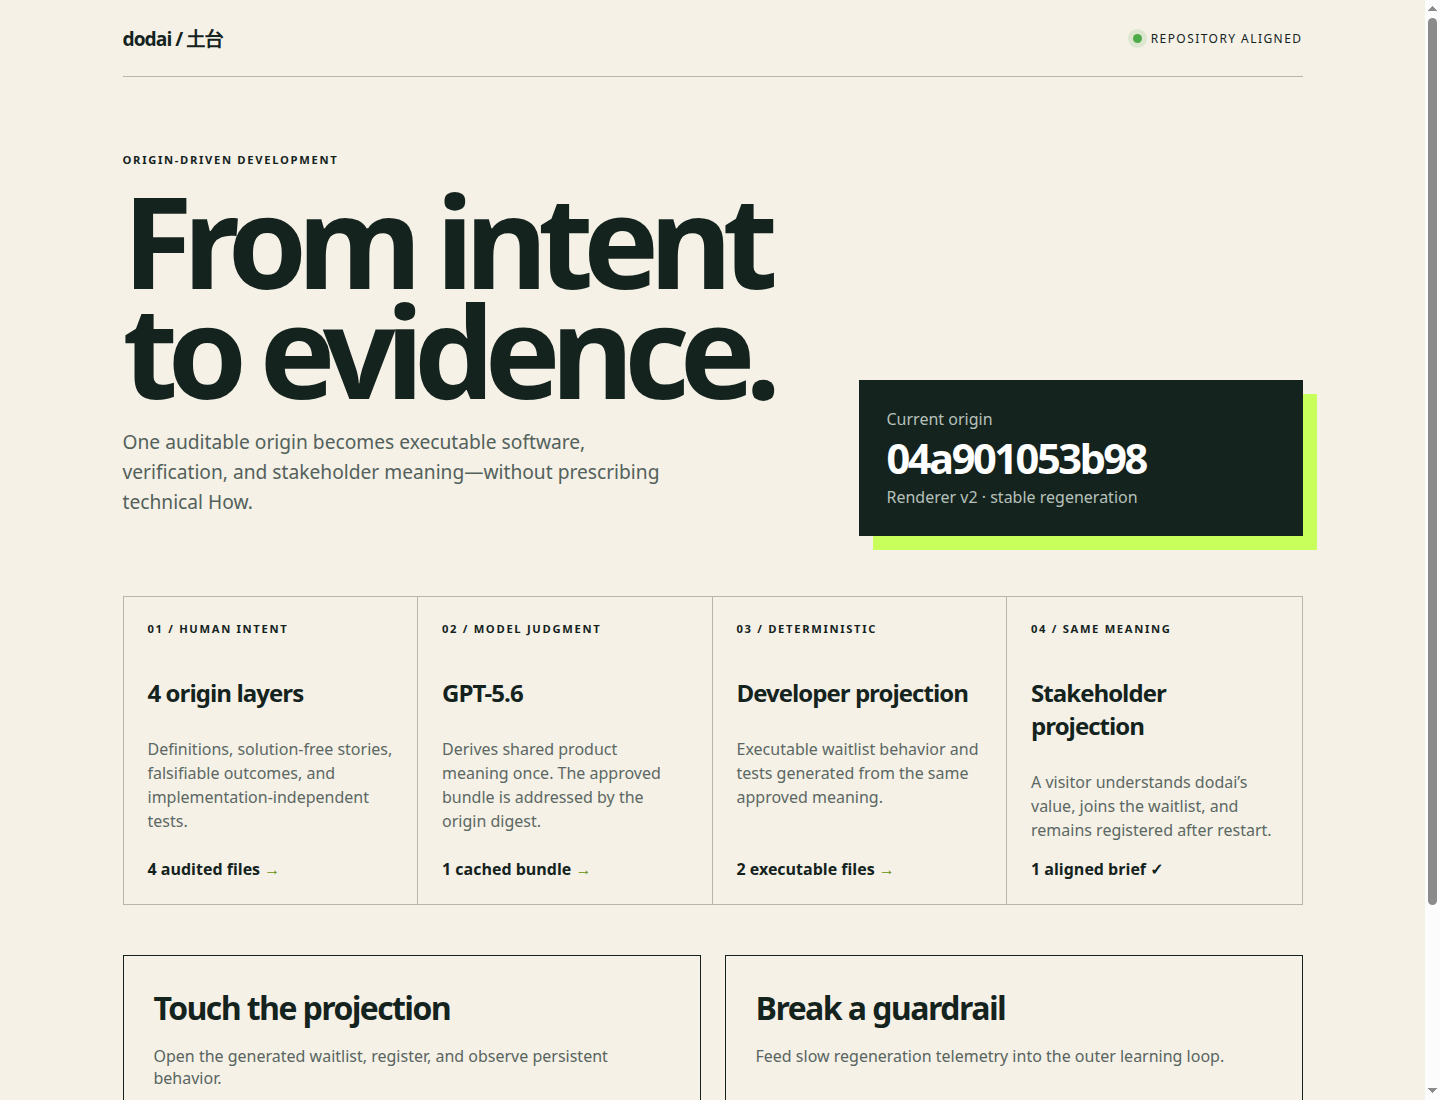
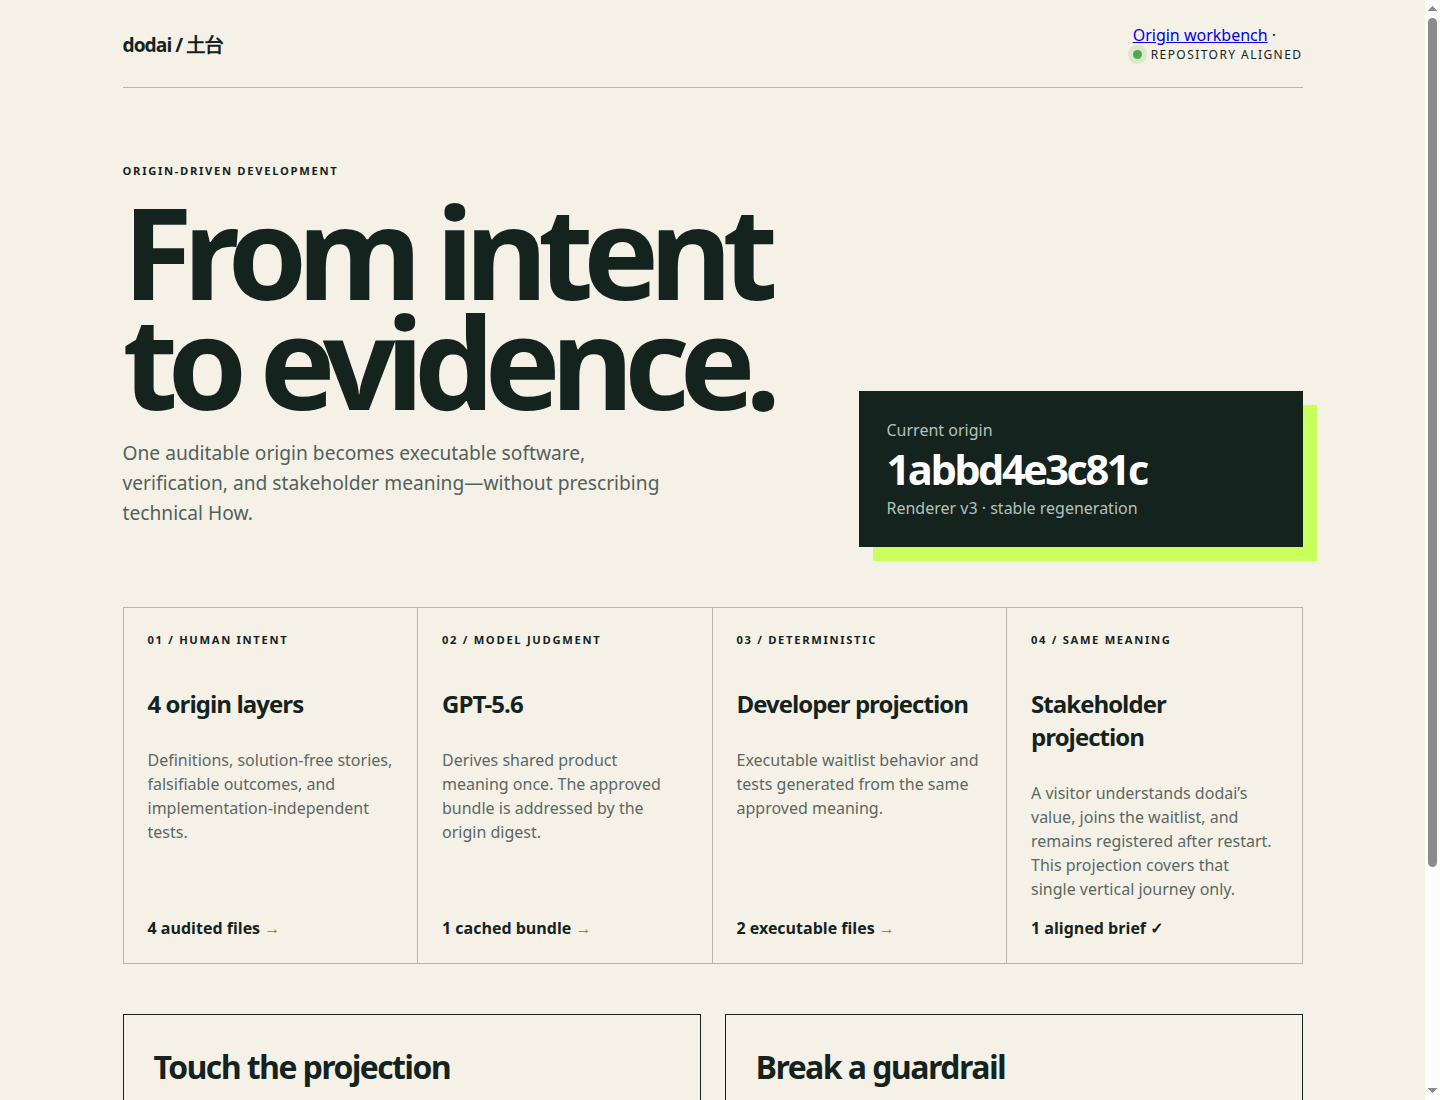
docs: present the governed origin workflow

diff --git a/submission/DEVPOST.md b/submission/DEVPOST.md
@@ -38,6 +38,14 @@ lost bet so the same disproven approach is not proposed again. A rebuild test
 discards projections, regenerates them from the origin, and exposes decisions
 that leaked outside the authoritative intent.
 
+The origin workbench makes this discipline operational. A person can edit any
+of the four layers, validate a candidate without changing the authoritative
+origin, inspect every affected record and projection, and explicitly approve or
+reject the complete change. Approval regenerates all active projections and
+records the connected decision history. Failed or stale candidates cannot
+partially change the origin. Projection pins are attributed separately, and
+`dodai init` applies the same discipline to a second product intent.
+
 ## How Codex was used
 
 The human owner defined the business problem, language boundaries, user pains,
@@ -54,8 +62,9 @@ dodai calls the OpenAI Responses API with `gpt-5.6` and strict structured
 output. GPT-5.6 translates the complete origin and projection pins into
 role-neutral product meaning: audience, promise, value proposition, action, and
 stakeholder summary. The committed semantic bundle and generated waitlist
-projections were produced by one verified live GPT-5.6 request. Tests and demos
-reuse that approved bundle and do not spend additional model tokens.
+projections were produced by verified live GPT-5.6 requests: the initial
+vertical slice and one approved origin evolution. Tests and demos reuse the
+active approved bundle and do not spend additional model tokens.
 
 ## Judge testing instructions
 
@@ -75,9 +84,11 @@ bash scripts/demo-web.sh
 ```
 
 Then open <http://127.0.0.1:8000>. The first screen explains the repository-backed
-origin-to-projection lineage. Run the isolated guardrail scenario, then open the
-generated product and submit a valid email. Repeat it to see duplicate handling,
-and try an invalid value. Registrations remain local and survive server restarts.
+origin-to-projection lineage. Open the origin workbench to inspect all four
+layers and preview a candidate impact. Run the isolated guardrail scenario and
+review its layer-four adoption path, then open the generated product and submit
+a valid email. Repeat it to see duplicate handling, and try an invalid value.
+Registrations remain local and survive server restarts.
 
 For the complete verification suite:
 

diff --git a/submission/DEMO_SCRIPT.md b/submission/DEMO_SCRIPT.md
@@ -16,30 +16,31 @@ stakeholder projections.
 
 ## 0:20–0:50 — The four-layer origin
 
-**Screen:** Open the definitions, user stories, acceptance criteria, and test
-specifications. Run `uv run dodai --root . lint`.
+**Screen:** Open the browser origin workbench, switch across the four layers,
+make a small candidate edit, and preview its affected records and projections.
 
 **Narration:**
 
 > The origin has four layers. Definitions supply the business vocabulary. User
 > stories contain only actors and pains. Acceptance criteria define falsifiable
 > outcomes, guardrails, and exit conditions. Test specifications verify those
-> outcomes without naming implementation details. The vocabulary linter reports
-> solution language in the wrong layer.
+> outcomes without naming implementation details. An edit stays a candidate
+> until its complete impact is valid and explicitly approved; rejection or
+> failed regeneration leaves the authoritative origin unchanged.
 
 ## 0:50–1:20 — GPT-5.6 and projections
 
-**Screen:** Run `bash scripts/demo-web.sh`. Show the four-step origin-to-evidence
-lineage, open the generated projection, submit an email, and return to run the
-isolated guardrail scenario. Do not run `--refresh` during recording.
+**Screen:** Return to the four-step origin-to-evidence lineage, open the
+generated projection, submit an email, and return to run the isolated guardrail
+scenario and show its adoption action. Do not run `--refresh` during recording.
 
 **Narration:**
 
 > GPT-5.6 reads the complete origin and derives one strict structured bundle of
 > shared product meaning. This screen reads the actual repository and traces
 > that meaning into a working product, behavioral tests, and an aligned
-> stakeholder brief. This committed bundle came from one live GPT-5.6 request.
-> The origin digest makes later regeneration stable without spending more model
+> stakeholder brief. GPT-5.6 was called for approved origin changes, then the
+> origin digest makes later regeneration stable without spending more model
 > tokens.
 
 ## 1:20–1:50 — Rebuild and outer loop

diff --git a/README.md b/README.md
@@ -102,6 +102,8 @@ Successful approval connects the human decision, before and after origin
 identities, validation, and resulting projection identity in local change
 history. Candidate and history state under `.dodai/` is ignored by Git.
 
+![dodai four-layer origin workbench](docs/assets/origin-workbench.png)
+
 The same lifecycle is available from the CLI:
 
 ```bash